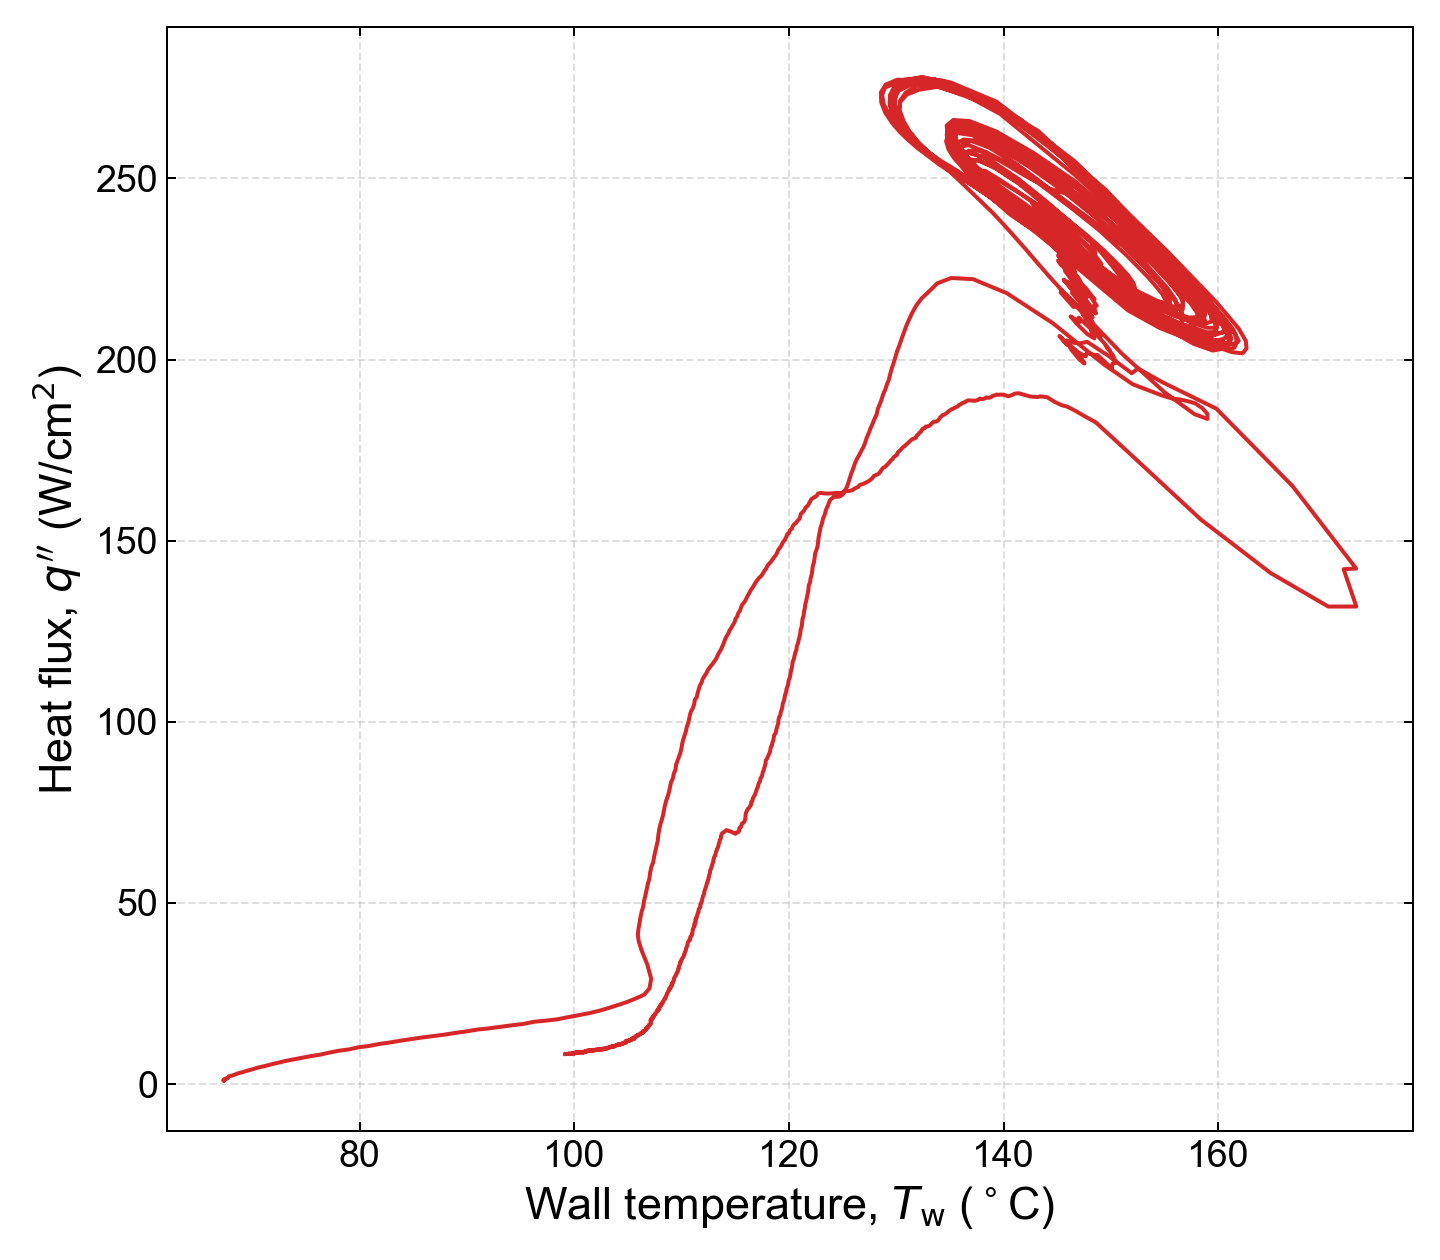
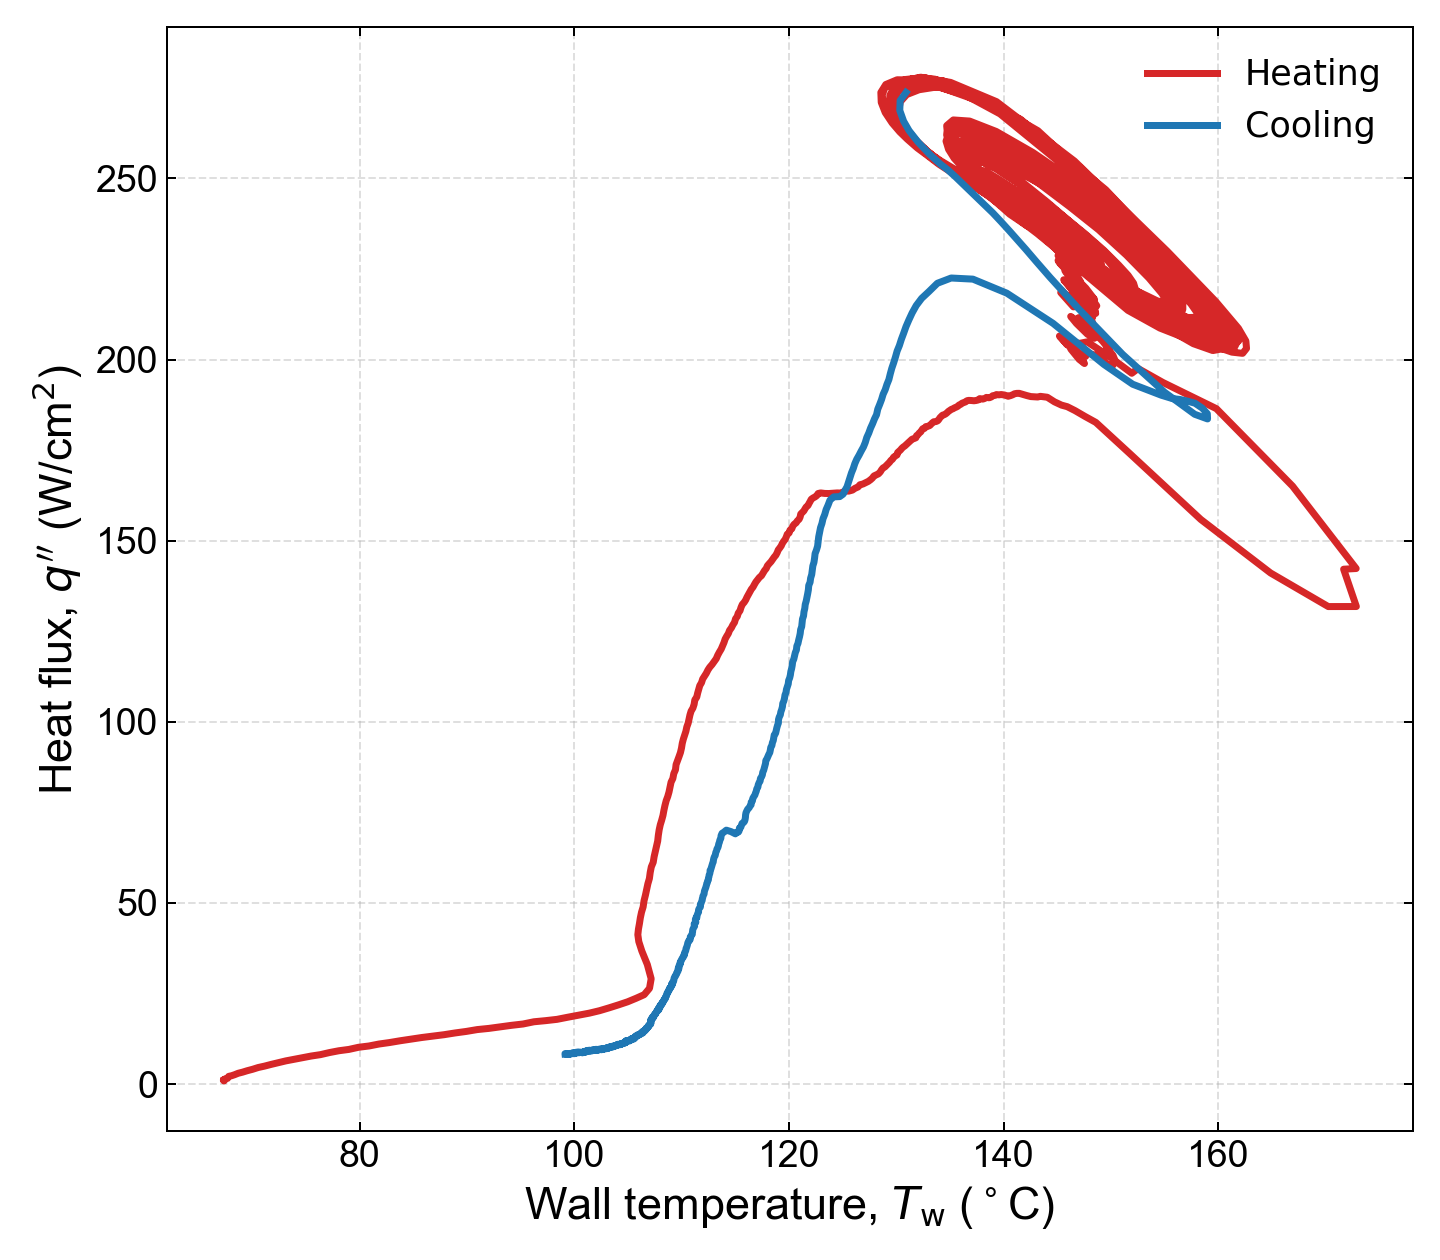
Split boiling curve heating and cooling traces

diff --git a/scripts/run_single_case_demo.py b/scripts/run_single_case_demo.py
@@ -435,29 +435,58 @@ def save_heat_flux_power_plot(
 
 def save_boiling_curve_plot(
     path: Path,
+    time_s: np.ndarray,
     wall_temperature: np.ndarray,
     heat_flux: np.ndarray,
+    off_time_s: float | None = None,
 ) -> None:
+    time_s = np.asarray(time_s, dtype=float)
     wall_temperature = np.asarray(wall_temperature, dtype=float)
     heat_flux = np.asarray(heat_flux, dtype=float)
-    finite = np.isfinite(wall_temperature) & np.isfinite(heat_flux)
+    finite = np.isfinite(time_s) & np.isfinite(wall_temperature) & np.isfinite(heat_flux)
     if not np.any(finite):
         raise ValueError("No finite wall-temperature and heat-flux pairs found for boiling curve.")
 
     fig, ax = plt.subplots(figsize=(8, 7))
-    ax.plot(
-        wall_temperature[finite],
-        heat_flux[finite],
-        color="tab:red",
-        linewidth=1.6,
-        linestyle="-",
-    )
+    linewidth = 2.8
+    if off_time_s is None:
+        ax.plot(
+            wall_temperature[finite],
+            heat_flux[finite],
+            color="tab:red",
+            linewidth=linewidth,
+            linestyle="-",
+            label=r"$t < t_{\mathrm{off}}$",
+        )
+    else:
+        heating = finite & (time_s < off_time_s)
+        cooling = finite & (time_s >= off_time_s)
+        if np.any(heating):
+            ax.plot(
+                wall_temperature[heating],
+                heat_flux[heating],
+                color="tab:red",
+                linewidth=linewidth,
+                linestyle="-",
+                label="Heating",
+            )
+        if np.any(cooling):
+            ax.plot(
+                wall_temperature[cooling],
+                heat_flux[cooling],
+                color="tab:blue",
+                linewidth=linewidth,
+                linestyle="-",
+                label="Cooling",
+            )
     ax.set_xlabel("Wall temperature, $T_{\\mathrm{w}}$ ($^\\circ$C)", fontsize=18, fontname="Arial")
     ax.set_ylabel("Heat flux, $q''$ (W/cm$^2$)", fontsize=18, fontname="Arial")
     ax.grid(True, linestyle="--", alpha=0.4)
     ax.tick_params(axis="both", which="major", labelsize=15, direction="in", top=True, right=True)
     for label in ax.get_xticklabels() + ax.get_yticklabels():
         label.set_fontname("Arial")
+    if len(ax.lines) > 1:
+        ax.legend(frameon=False, fontsize=14, loc="best")
     fig.tight_layout()
     fig.savefig(path, dpi=180)
     plt.close(fig)
@@ -1558,8 +1587,10 @@ def analyze_case(args: argparse.Namespace) -> dict[str, object]:
     )
     save_boiling_curve_plot(
         plots_dir / "boiling_curve.png",
+        time_s,
         surface_temperature,
         heat_flux,
+        off_time_s=shut_time,
     )
 
     if not args.skip_sensors:

diff --git a/tests/test_single_case_demo.py b/tests/test_single_case_demo.py
@@ -94,8 +94,10 @@ class BoilingCurvePlotTests(unittest.TestCase):
 
             save_boiling_curve_plot(
                 path,
+                time_s=np.array([0.0, 1.0, 2.0]),
                 wall_temperature=np.array([90.0, 100.0, 110.0]),
                 heat_flux=np.array([10.0, 25.0, 40.0]),
+                off_time_s=1.5,
             )
 
             self.assertTrue(path.exists())